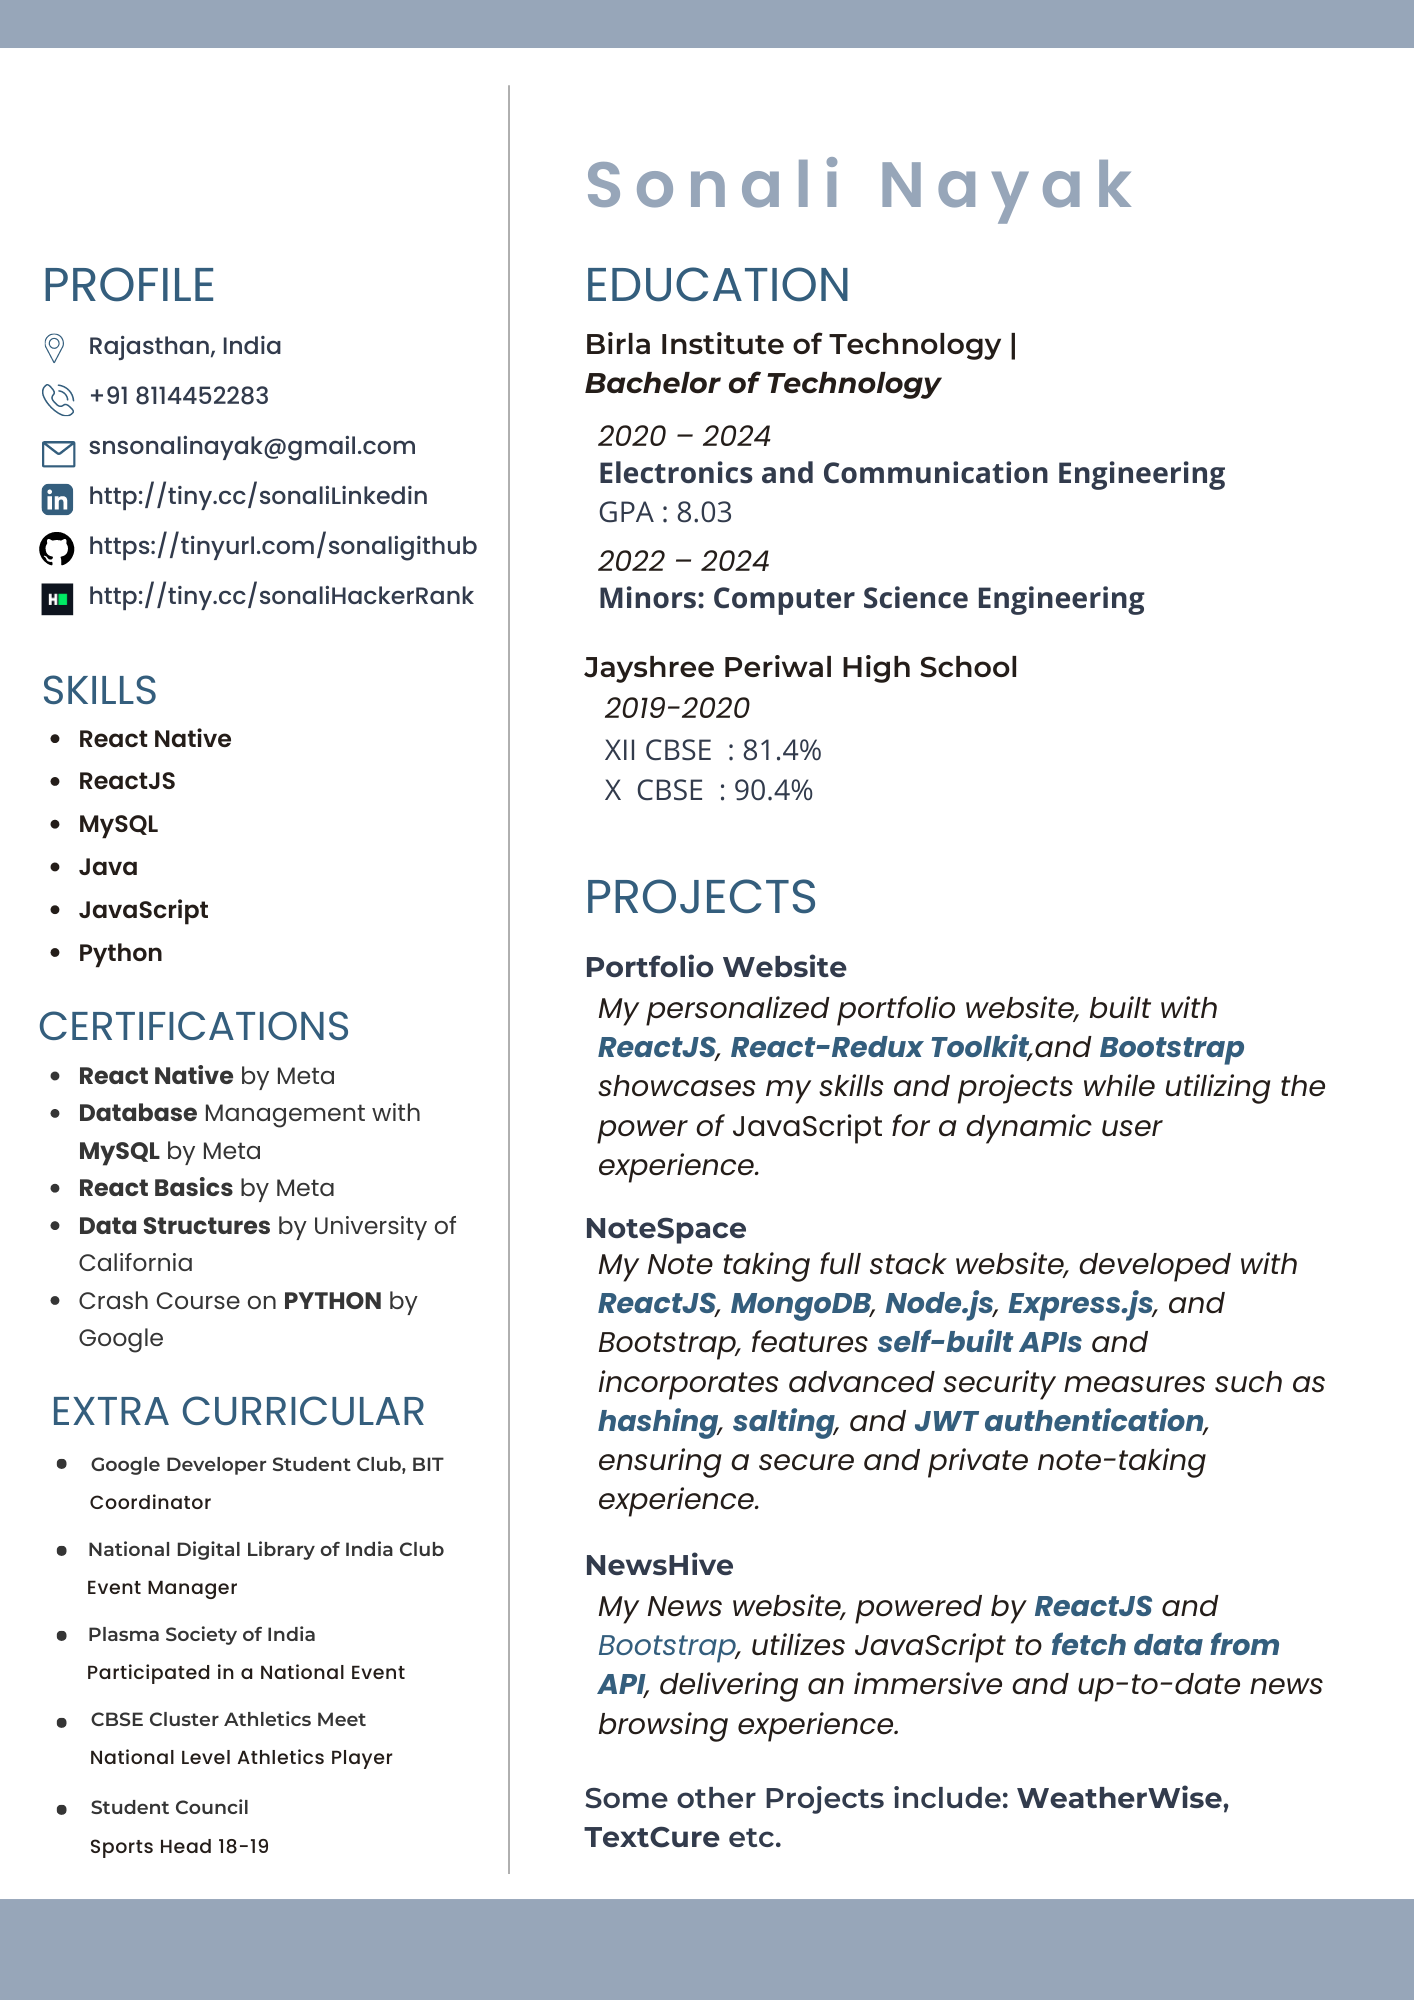
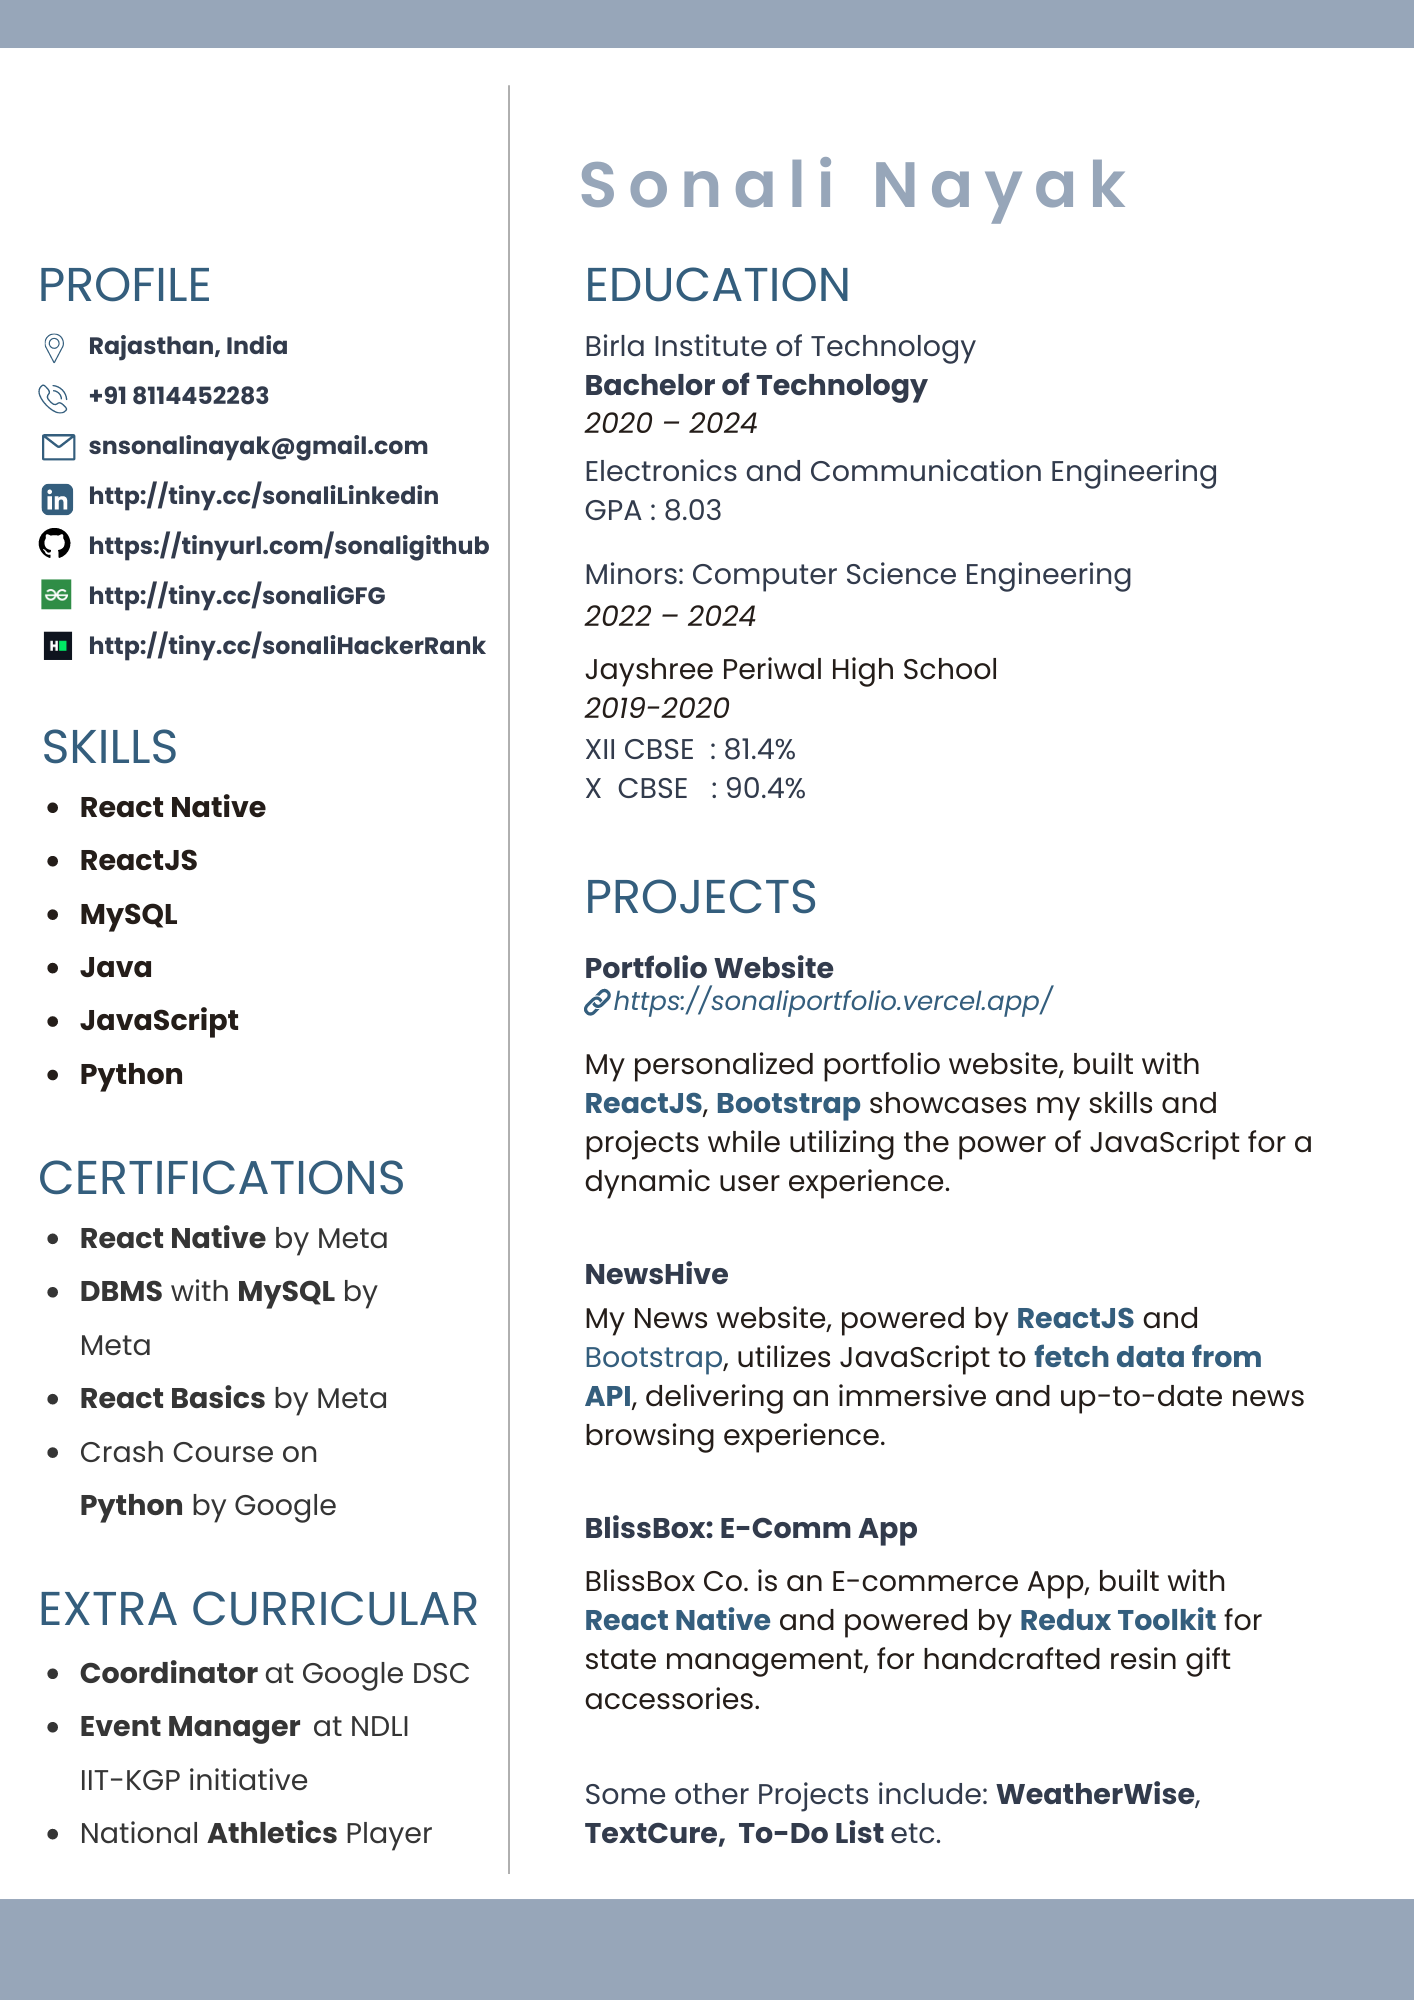
Added Project

diff --git a/src/components/Projects.js b/src/components/Projects.js
@@ -5,6 +5,7 @@ import weatherProject from '../images/weatherProject.json';
 import todoProject from '../images/todoList.json';
 import textCureProject from '../images/textCureProject.json';
 import noteSpaceProject from '../images/noteSpaceProject.json';
+import EcomProjectProject from '../images/EcomProject.json';
 
 
 export const Projects = () => {
@@ -21,6 +22,15 @@ export const Projects = () => {
       desc="This project is powered by ReactJS and Bootstrap, utilizes JavaScript to fetch data from a news API, delivering an immersive and up-to-date news browsing experience."
       githubLink="https://github.com/snsonalinayak/NewsHive"
       skills="ReactJS | API | Javascript | Bootstrap"
+      />
+      </div>
+      <div className="col-lg-6">
+      <ProjectItem 
+      title="Bliss Box"
+      image={EcomProjectProject}
+      desc="This is an E-commerce App, built with React Native and powered by Redux Toolkit for state management, revolutionizes the shopping experience for our handcrafted resin gift accessories."
+      githubLink="https://github.com/snsonalinayak/BlissBoxCo"
+      skills="React Native | Redux Toolkit | Javascript"
       />
       </div>
 

diff --git a/src/components/Resume.js b/src/components/Resume.js
@@ -3,9 +3,9 @@ import sonaliResume from '../images/Sonali Resume.png'
 
 const Resume = () => {
   return (
-    <div className="container d-flex align-items-center justify-content-center mh-100" >
+    <div className="container d-flex align-items-center justify-content-center mh-100 mb-5">
         
-        <img className='align-self-start my-5' src={sonaliResume} style={{height:"80%",width:"50%"}} />
+        <img className='align-self-start my-5' src={sonaliResume} style={{height:"100%",width:"55%"}} />
 
     </div>
   )
